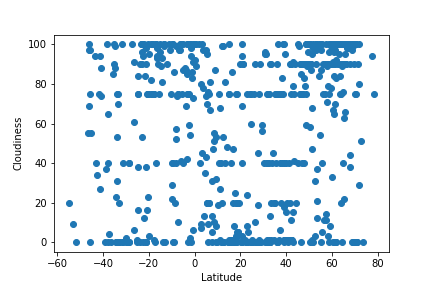
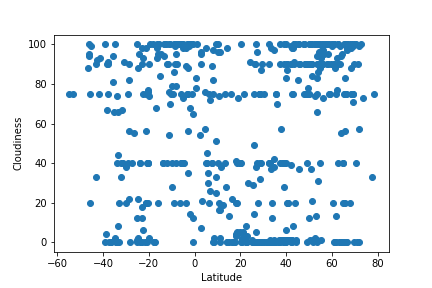
add more content to pages

diff --git a/landing.html b/landing.html
@@ -18,8 +18,8 @@
       <div class="row">
         <div class="col-md-8">
                         <h1>Summary: Latitude vs. X</h1>
-                        <img src="assets/images/Fig1.png" alt="Fig1"/>
-                        <p>The purpose of this project was to analyze how weather changes as you get closer to the equator. To accomplish this analysis, we first pulled data from the OpenWeatherMap API to assemble a dataset on over 500 cities.After assembling the dataset, we used Matplotlib to plot various aspects of the weather vs. latitude. Factors we looked at included: temperature, cloudiness, wind speed, and humidity. This site provides the source data and visualizations created as part of the analysis, as well as explanations and descriptions of any trends and correlations witnessed.</p>
+                        <img src="assets/images/tempreg.png"/>
+                        <p>The purpose of this project was to analyze how weather changes as you get closer to the equator. To accomplish this analysis, we first pulled data from the OpenWeatherMap API to assemble a dataset on over 500 cities.After assembling the dataset, we used Matplotlib to plot various aspects of the weather vs. latitude. Factors we looked at included temperature, cloudiness, wind speed, and humidity. This site provides the source data and visualizations created as part of the analysis, as well as explanations and descriptions of any trends and correlations witnessed. A comparison of all of the visualizations can be found here: <a href="comparisons.html">Comparisons</a></p>
               
           </div>
           <div class="col-md-4">
@@ -30,10 +30,9 @@
               <a href="wind.html"><img src="assets/images/wind.png" alt="Latitude vs. Wind Speed" class="image-photo"></a>
           </div>
       </div>
-  </div>
-                   
-                <script src="https://code.jquery.com/jquery-3.3.1.slim.min.js" integrity="sha384-q8i/X+965DzO0rT7abK41JStQIAqVgRVzpbzo5smXKp4YfRvH+8abtTE1Pi6jizo" crossorigin="anonymous"></script>
-                <script src="https://cdnjs.cloudflare.com/ajax/libs/popper.js/1.14.7/umd/popper.min.js" integrity="sha384-UO2eT0CpHqdSJQ6hJty5KVphtPhzWj9WO1clHTMGa3JDZwrnQq4sF86dIHNDz0W1" crossorigin="anonymous"></script>
-                <script src="https://stackpath.bootstrapcdn.com/bootstrap/4.3.1/js/bootstrap.min.js" integrity="sha384-JjSmVgyd0p3pXB1rRibZUAYoIIy6OrQ6VrjIEaFf/nJGzIxFDsf4x0xIM+B07jRM" crossorigin="anonymous"></script>
+  </div>                  
+      <script src="https://code.jquery.com/jquery-3.3.1.slim.min.js" integrity="sha384-q8i/X+965DzO0rT7abK41JStQIAqVgRVzpbzo5smXKp4YfRvH+8abtTE1Pi6jizo" crossorigin="anonymous"></script>
+      <script src="https://cdnjs.cloudflare.com/ajax/libs/popper.js/1.14.7/umd/popper.min.js" integrity="sha384-UO2eT0CpHqdSJQ6hJty5KVphtPhzWj9WO1clHTMGa3JDZwrnQq4sF86dIHNDz0W1" crossorigin="anonymous"></script>
+      <script src="https://stackpath.bootstrapcdn.com/bootstrap/4.3.1/js/bootstrap.min.js" integrity="sha384-JjSmVgyd0p3pXB1rRibZUAYoIIy6OrQ6VrjIEaFf/nJGzIxFDsf4x0xIM+B07jRM" crossorigin="anonymous"></script>
 </body>
 </html>

diff --git a/comparisons.html b/comparisons.html
@@ -3,7 +3,7 @@
 
     <head>
     <meta charset="UTF-8">
-    <title>Comparisons Visualizations</title>
+    <title>Comparisons</title>
     <link rel="stylesheet" href="https://stackpath.bootstrapcdn.com/bootstrap/4.3.1/css/bootstrap.min.css" integrity="sha384-ggOyR0iXCbMQv3Xipma34MD+dH/1fQ784/j6cY/iJTQUOhcWr7x9JvoRxT2MZw1T" crossorigin="anonymous">
     <link rel="stylesheet" href="assets/css/styles.css">
     </head>
@@ -13,7 +13,22 @@
             <a id="logo">Latitude</a>
         </div>
       </div>
-      
+      <div class="container">
+        <div class="row">
+          <div class="col-md-6">
+                          <h1>Comparisons</h1>
+                          <p>Three observable trends found in the data are that temperature and humidity change dramatically based upon latitude. So a strong inverse or positive relationship was observed between changes in the latitude and changes in the temperature and humidity. The second observable trend was that wind speed and cloudiness were not so strongly correlated with changes in latitude. This means that the chances of having the same cloudiness and wind speed at various latitudes are pretty high. The third observable trend was that wind speed and cloudiness increase as we move up the latitude in the northern hemisphere. This suggests that as we move towards the North Pole, more extreme weather phenomena such as high winds, heavy snowfall, and heavy rainfall can be observed.</p>
+                
+        </div>
+            <div class="col-md-6">
+              <h2>Visualizations</h2>
+                <img src="assets/images/tempreg.png" alt="Latitude vs. Temperature" class="image-photo">
+                <img src="assets/images/humidityreg.png" alt="Latitude vs. Humidity" class="image-photo">
+                <img src="assets/images/cloudreg.png" alt="Latitude vs. Cloudiness" class="image-photo">
+                <img src="assets/images/windreg.png" alt="Latitude vs. Wind Speed" class="image-photo">
+            </div>
+        </div>
+    </div>      
     <script src="https://code.jquery.com/jquery-3.3.1.slim.min.js" integrity="sha384-q8i/X+965DzO0rT7abK41JStQIAqVgRVzpbzo5smXKp4YfRvH+8abtTE1Pi6jizo" crossorigin="anonymous"></script>
     <script src="https://cdnjs.cloudflare.com/ajax/libs/popper.js/1.14.7/umd/popper.min.js" integrity="sha384-UO2eT0CpHqdSJQ6hJty5KVphtPhzWj9WO1clHTMGa3JDZwrnQq4sF86dIHNDz0W1" crossorigin="anonymous"></script>
     <script src="https://stackpath.bootstrapcdn.com/bootstrap/4.3.1/js/bootstrap.min.js" integrity="sha384-JjSmVgyd0p3pXB1rRibZUAYoIIy6OrQ6VrjIEaFf/nJGzIxFDsf4x0xIM+B07jRM" crossorigin="anonymous"></script>

diff --git a/temp.html b/temp.html
@@ -3,7 +3,7 @@
 
     <head>
     <meta charset="UTF-8">
-    <title>Temperature Visualizations</title>
+    <title>Temperature Visualization</title>
     <link rel="stylesheet" href="https://stackpath.bootstrapcdn.com/bootstrap/4.3.1/css/bootstrap.min.css" integrity="sha384-ggOyR0iXCbMQv3Xipma34MD+dH/1fQ784/j6cY/iJTQUOhcWr7x9JvoRxT2MZw1T" crossorigin="anonymous">
     <link rel="stylesheet" href="assets/css/styles.css">
     </head>
@@ -19,11 +19,11 @@
     <div class="container">
         <div class= "row">
             <div class="col-md-12">
-                <h1>vs Temperature</h1>
-                <a><img src="assets/images/temp.png" alt="Latitude vs. Temperature" class="image-photo"></a>
+                <h1>vs Temperature(F)</h1>
+                <a><img src="assets/images/tempreg.png" alt="Latitude vs. Temperature" class="image-photo"></a>
                 <p>
-                    There is a weak positive relationship between the latitude and cloudiness. As we move towards the equator there is a slight increase in cloudiness.
-                    </p>
+                The linear regression is modeling an inverse statistical relationship between the temperature and the latitude. As we move south the temperature decreases, reflecting real world observations.
+                </p>
             </div>
         </div>
     </div>

diff --git a/cloudiness.html b/cloudiness.html
@@ -3,7 +3,7 @@
 
     <head>
     <meta charset="UTF-8">
-    <title>Cloudiness Visualizations</title>
+    <title>Cloudiness Visualization</title>
     <link rel="stylesheet" href="https://stackpath.bootstrapcdn.com/bootstrap/4.3.1/css/bootstrap.min.css" integrity="sha384-ggOyR0iXCbMQv3Xipma34MD+dH/1fQ784/j6cY/iJTQUOhcWr7x9JvoRxT2MZw1T" crossorigin="anonymous">
     <link rel="stylesheet" href="assets/css/styles.css">
     </head>
@@ -20,10 +20,10 @@
         <div class= "row">
             <div class="col-md-12">
                 <h1>vs Cloudiness</h1>
-                <a><img src="assets/images/cloud.png" alt="Latitude vs. Cloudiness" class="image-photo"></a>
+                <a><img src="assets/images/cloudreg.png" alt="Latitude vs. Cloudiness" class="image-photo"></a>
                 <p>
-                    There is a weak positive relationship between the latitude and cloudiness. As we move towards the equator there is a slight increase in cloudiness.
-                    </p>
+                    This linear regression models a weak positive relationship between the latitude and cloudiness. As we move south there is a slight increase in cloudiness, but the relationship is very weak due to the small slope of the regression line.
+                </p>
             </div>
         </div>
     </div>

diff --git a/wind.html b/wind.html
@@ -3,7 +3,7 @@
 
     <head>
     <meta charset="UTF-8">
-    <title>Wind Speed Visualizations</title>
+    <title>Wind Speed Visualization</title>
     <link rel="stylesheet" href="https://stackpath.bootstrapcdn.com/bootstrap/4.3.1/css/bootstrap.min.css" integrity="sha384-ggOyR0iXCbMQv3Xipma34MD+dH/1fQ784/j6cY/iJTQUOhcWr7x9JvoRxT2MZw1T" crossorigin="anonymous">
     <link rel="stylesheet" href="assets/css/styles.css">
     </head>
@@ -19,11 +19,11 @@
     <div class="container">
         <div class= "row">
             <div class="col-md-12">
-                <h1>vs Wind Speed</h1>
-                <a><img src="assets/images/wind.png" alt="Latitude vs. Wind Speed" class="image-photo"></a>
+                <h1>vs Wind Speed (mph)</h1>
+                <a><img src="assets/images/windreg.png" alt="Latitude vs. Wind Speed" class="image-photo"></a>
                 <p>
-                    There is a weak positive relationship between the latitude and cloudiness. As we move towards the equator there is a slight increase in cloudiness.
-                    </p>
+                This regression models an inverse relationship between the latitude and the wind speed. It is a weak relationship due to the very small slope of the regression line. 
+                </p>
             </div>
         </div>
     </div>

diff --git a/humidity.html b/humidity.html
@@ -3,7 +3,7 @@
 
     <head>
     <meta charset="UTF-8">
-    <title>Humidity Visualizations</title>
+    <title>Humidity Visualization</title>
     <link rel="stylesheet" href="https://stackpath.bootstrapcdn.com/bootstrap/4.3.1/css/bootstrap.min.css" integrity="sha384-ggOyR0iXCbMQv3Xipma34MD+dH/1fQ784/j6cY/iJTQUOhcWr7x9JvoRxT2MZw1T" crossorigin="anonymous">
     <link rel="stylesheet" href="assets/css/styles.css">
     </head>
@@ -20,10 +20,10 @@
         <div class= "row">
             <div class="col-md-12">
                 <h1>vs Humidity</h1>
-                <a><img src="assets/images/humidity.png" alt="Latitude vs. Humidity" class="image-photo"></a>
+                <a><img src="assets/images/humidityreg.png" alt="Latitude vs. Humidity" class="image-photo"></a>
                 <p>
-                    There is a weak positive relationship between the latitude and cloudiness. As we move towards the equator there is a slight increase in cloudiness.
-                    </p>
+                    The linear regression is modeling a positive statistical relationship between humidity and latitude. Although a positive relationship is detected it is very weak.
+                </p>
             </div>
         </div>
     </div>

diff --git a/data.html b/data.html
@@ -3,7 +3,7 @@
 
     <head>
     <meta charset="UTF-8">
-    <title>Data Source Visualizations</title>
+    <title>Data Source</title>
     <link rel="stylesheet" href="https://stackpath.bootstrapcdn.com/bootstrap/4.3.1/css/bootstrap.min.css" integrity="sha384-ggOyR0iXCbMQv3Xipma34MD+dH/1fQ784/j6cY/iJTQUOhcWr7x9JvoRxT2MZw1T" crossorigin="anonymous">
     <link rel="stylesheet" href="assets/css/styles.css">
     </head>
@@ -6619,8 +6619,7 @@
   </table>
 </div>
 </div>
-                </article>
-            </div>
+</div>
     <script src="https://code.jquery.com/jquery-3.3.1.slim.min.js" integrity="sha384-q8i/X+965DzO0rT7abK41JStQIAqVgRVzpbzo5smXKp4YfRvH+8abtTE1Pi6jizo" crossorigin="anonymous"></script>
     <script src="https://cdnjs.cloudflare.com/ajax/libs/popper.js/1.14.7/umd/popper.min.js" integrity="sha384-UO2eT0CpHqdSJQ6hJty5KVphtPhzWj9WO1clHTMGa3JDZwrnQq4sF86dIHNDz0W1" crossorigin="anonymous"></script>
     <script src="https://stackpath.bootstrapcdn.com/bootstrap/4.3.1/js/bootstrap.min.js" integrity="sha384-JjSmVgyd0p3pXB1rRibZUAYoIIy6OrQ6VrjIEaFf/nJGzIxFDsf4x0xIM+B07jRM" crossorigin="anonymous"></script>

diff --git a/assets/css/styles.css b/assets/css/styles.css
@@ -27,8 +27,6 @@ p{
     margin:0;
     padding:0;
 }
-.image-photo{}
-
 #logo{
     color: white;
     background-color: rgb(22, 191, 221);
